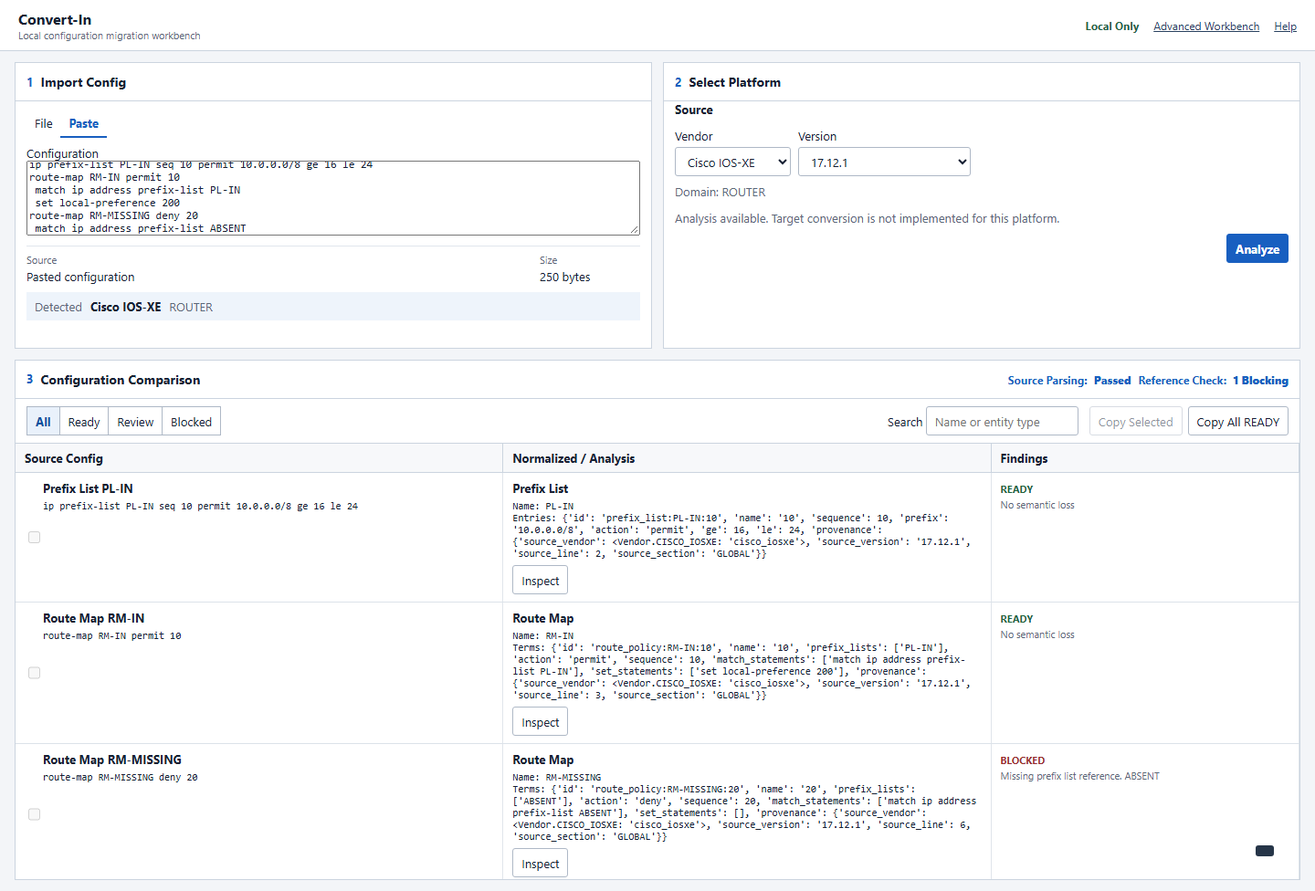
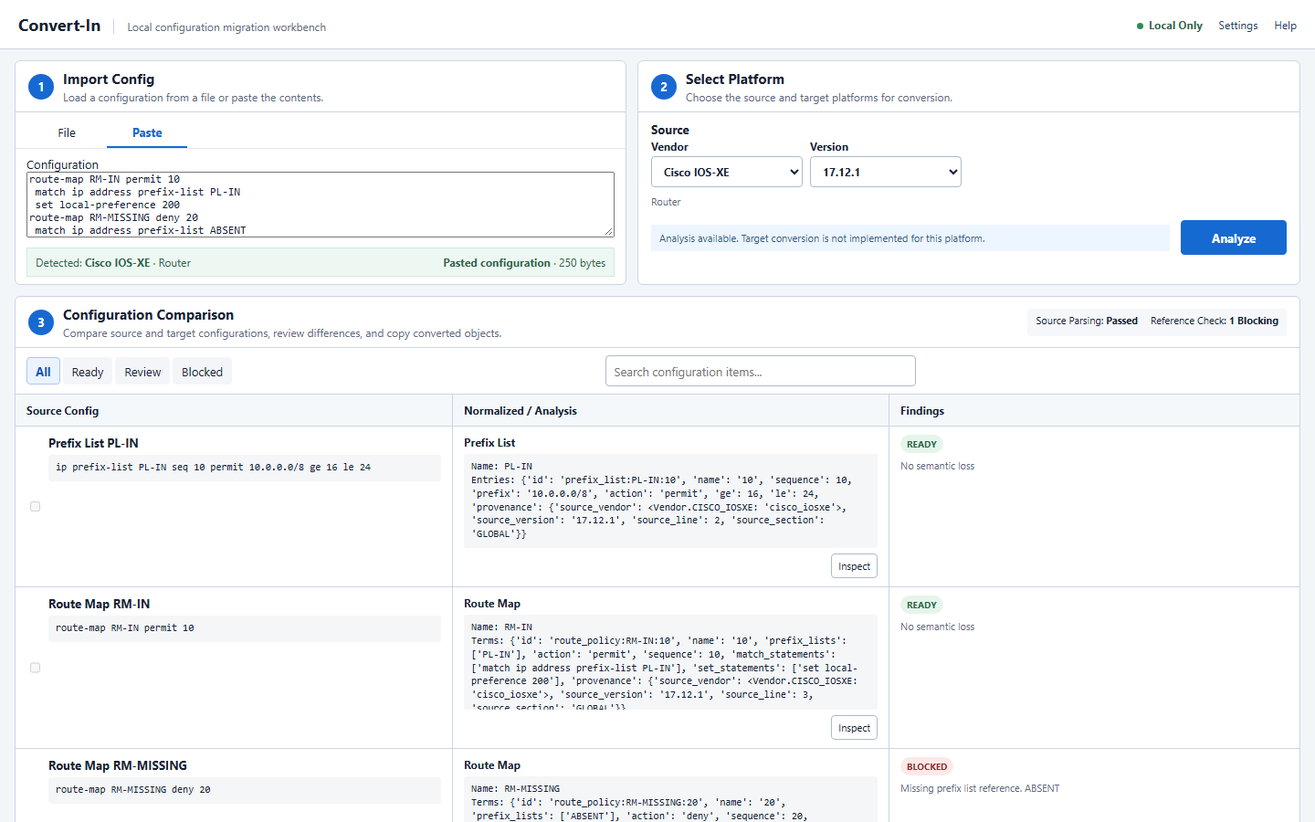
refine three-card workbench UX

diff --git a/app/static/css/workbench.css b/app/static/css/workbench.css
@@ -1,1 +1,1 @@
-:root{font:13px system-ui,-apple-system,"Segoe UI",sans-serif;color:#172033;background:#f3f5f8;--blue:#185fc0;--border:#cbd4df;--muted:#5c6879;--surface:#fff;--danger:#9b2c2c}*{box-sizing:border-box}[hidden]{display:none!important}body{margin:0}button,input,select,textarea{font:inherit;color:inherit}button,select,input{min-height:32px;border:1px solid #aeb8c6;border-radius:3px;background:#fff;padding:5px 9px}button{cursor:pointer}button:disabled{opacity:.48;cursor:not-allowed}:focus-visible{outline:2px solid var(--blue);outline-offset:2px}.top{height:56px;display:flex;align-items:center;justify-content:space-between;padding:0 max(20px,calc((100% - 1540px)/2));border-bottom:1px solid var(--border);background:#fff}.top>a{color:inherit;text-decoration:none}.top b,.top small{display:block}.top b{font-size:16px}.top small{font-size:11px;color:var(--muted)}.top nav{display:flex;align-items:center;gap:16px;font-size:12px}.top nav a{color:#29415f}.top nav span{color:#256044;font-weight:650}.workbench{width:calc(100% - 32px);max-width:1540px;margin:12px auto;display:grid;grid-template-columns:1fr 1fr;gap:12px}.card{background:var(--surface);border:1px solid var(--border);min-width:0}.card>header{height:42px;border-bottom:1px solid var(--border);display:flex;align-items:center;gap:8px;padding:0 12px}.card>header>span,.comparison-head>div>span{color:var(--blue);font-weight:700}.card h1{font-size:14px;margin:0}.tabs{display:flex;padding:8px 12px 0}.tabs button{border:0;border-bottom:2px solid transparent;border-radius:0}.tabs button.active{color:var(--blue);border-color:var(--blue);font-weight:700}#file-panel,#paste-panel{padding:8px 12px}#drop-zone{height:82px;border:1px dashed #9eabbc;display:grid;place-content:center;text-align:center;color:var(--muted)}#drop-zone strong{color:#25354a}#source-file{position:absolute;width:1px;height:1px;opacity:0}#source-text{width:100%;height:82px;resize:vertical;font:12px ui-monospace,Consolas,monospace}.file-meta{display:grid;grid-template-columns:1fr 110px;margin:0 12px;border-top:1px solid #e1e6ed}.file-meta div{padding:7px 0}.file-meta dt{font-size:11px;color:var(--muted)}.file-meta dd{margin:2px 0;overflow:hidden;text-overflow:ellipsis;white-space:nowrap}.detected{margin:0 12px 8px;padding:7px 9px;background:#eef4fb;display:flex;gap:9px;align-items:center}.detected span{color:var(--muted)}.platform-grid{display:grid;grid-template-columns:1fr 1fr}.platform-grid fieldset{border:0;margin:0;padding:12px;display:grid;grid-template-columns:1fr 1fr;gap:8px}.platform-grid fieldset+fieldset{border-left:1px solid var(--border)}legend{font-weight:700;padding:0}.platform-grid label{display:grid;gap:4px}.platform-grid p{grid-column:1/-1;margin:0;color:var(--muted)}#analysis-note{margin:0 12px 9px;color:var(--muted)}#run{float:right;margin:0 12px 8px}.primary{background:var(--blue);color:#fff;border-color:var(--blue);font-weight:700}.error{color:var(--danger);margin:6px 12px;min-height:16px}.comparison-card{grid-column:1/-1;height:calc(100vh - 330px);min-height:420px;display:flex;flex-direction:column;position:relative}.comparison-head{justify-content:space-between}.comparison-head>div{display:flex;gap:8px}.assurance{display:flex;gap:18px;font-size:12px}.assurance b{margin-left:4px}.empty{margin:auto;color:var(--muted)}#results{display:flex;flex-direction:column;min-height:0;flex:1}.toolbar{display:flex;align-items:center;gap:12px;padding:8px 12px;border-bottom:1px solid var(--border)}.filters{display:flex}.filters button{border-radius:0;margin-right:-1px}.filters button.active{background:#e9f1fb;color:#124f9e;font-weight:700}.toolbar>label{margin-left:auto}.copy-actions{display:flex;gap:6px}.copy-actions a{min-height:32px;padding:6px 9px;border:1px solid #aeb8c6;color:inherit;text-decoration:none;border-radius:3px}.entity-grid{display:grid;grid-template-columns:34% 34% 32%;min-width:0}.analysis .entity-grid{grid-template-columns:38% 38% 24%}.column-heads{background:#f7f8fa;border-bottom:1px solid var(--border)}.column-heads>*{padding:7px 10px;border-right:1px solid var(--border)}.entity-list{overflow:auto;min-height:0}.entity-row{border-bottom:1px solid #dce2e9}.entity-row summary{list-style:none}.entity-row summary::-webkit-details-marker{display:none}.entity-cell{min-width:0;padding:8px 10px;border-right:1px solid #e0e5eb}.entity-cell:first-child{display:grid;grid-template-columns:20px 1fr}.entity-cell input{min-height:auto}.entity-cell b,.entity-cell small{display:block}.entity-cell small{color:var(--muted);margin-top:2px}.entity-cell pre{margin:5px 0 0;white-space:pre-wrap;overflow-wrap:anywhere;font:11px ui-monospace,Consolas,monospace}.status{font-weight:750;font-size:11px}.READY{color:#20643f}.REVIEW-REQUIRED{color:#835900}.BLOCKED{color:#972c2c}.row-action{margin-top:6px}.inspect{padding:8px 30px;background:#f8fafc;border-top:1px solid #e1e6ed}.inspect dl{display:grid;grid-template-columns:140px 1fr;margin:0}.inspect dt,.inspect dd{padding:3px;margin:0}.copy-status{position:absolute;right:28px;bottom:12px;background:#263548;color:#fff;padding:6px 10px;border-radius:3px}@media(max-width:900px){.workbench{grid-template-columns:1fr}.comparison-card{height:auto;min-height:520px}.top nav span{display:none}.platform-grid{grid-template-columns:1fr}.platform-grid fieldset+fieldset{border-left:0;border-top:1px solid var(--border)}.toolbar{flex-wrap:wrap}.toolbar>label{margin-left:0}.entity-grid,.analysis .entity-grid{grid-template-columns:minmax(260px,1fr) minmax(260px,1fr) minmax(180px,.7fr)}.column-heads,.entity-row summary{min-width:700px}.entity-list{overflow:auto}.assurance{display:none}}
+:root{font:13px system-ui,-apple-system,"Segoe UI",sans-serif;color:#172033;background:#f3f6f9;--blue:#1769d2;--border:#cbd5e1;--muted:#5d6b7e;--danger:#a52a2a}*{box-sizing:border-box}[hidden]{display:none!important}html,body{margin:0;min-width:0}button,input,select,textarea{font:inherit;color:inherit}button,select,input{min-height:34px;border:1px solid #aebaca;border-radius:4px;background:#fff;padding:5px 9px}button{cursor:pointer}button:disabled{opacity:.48;cursor:not-allowed}:focus-visible{outline:2px solid var(--blue);outline-offset:2px}.sr-only{position:absolute;width:1px;height:1px;padding:0;margin:-1px;overflow:hidden;clip:rect(0,0,0,0);white-space:nowrap;border:0}.top{height:54px;display:flex;align-items:center;justify-content:space-between;padding:0 20px;border-bottom:1px solid var(--border);background:#fff}.brand{display:flex;align-items:baseline;gap:14px;color:inherit;text-decoration:none}.brand b{font-size:18px}.brand small{font-size:12px;color:var(--muted);padding-left:14px;border-left:1px solid var(--border)}.top nav{display:flex;align-items:center;gap:18px;font-size:12px}.top nav a,.top nav button{color:#29415f;text-decoration:none}.top nav button{border:0;padding:0;background:none;min-height:30px}.local-only{color:#326449;font-weight:650}.local-only:before{content:"";display:inline-block;width:7px;height:7px;margin-right:6px;border-radius:50%;background:#2e8b57}.workbench{width:calc(100% - 32px);margin:12px 16px;display:grid;grid-template-columns:minmax(0,48fr) minmax(0,52fr);gap:12px}.card{background:#fff;border:1px solid var(--border);border-radius:6px;min-width:0}.card>header{min-height:56px;border-bottom:1px solid var(--border);display:flex;align-items:center;gap:10px;padding:8px 14px}.card>header>span,.card-heading>span{display:grid;place-items:center;flex:0 0 28px;height:28px;border-radius:50%;color:#fff;background:var(--blue);font-weight:700}.card h1{font-size:15px;margin:0}.card header p{font-size:12px;color:var(--muted);margin:2px 0 0}.tabs{display:flex;padding:5px 12px 0;border-bottom:1px solid #e1e7ee}.tabs button{min-width:88px;border:0;border-bottom:2px solid transparent;border-radius:0}.tabs button.active{color:var(--blue);border-color:var(--blue);font-weight:700}#file-panel,#paste-panel{padding:8px 12px}#drop-zone{height:72px;border:1px dashed #9eabbc;border-radius:4px;display:grid;place-content:center;text-align:center;color:var(--muted)}#drop-zone strong{color:#25354a}#source-file{position:absolute;width:1px;height:1px;opacity:0}#source-text{width:100%;height:72px;resize:vertical;font:12px ui-monospace,Consolas,monospace}.source-status{margin:0 12px 8px;padding:7px 9px;display:flex;justify-content:space-between;gap:10px;background:#edf8f2;border:1px solid #d1eadc;color:#2e654a;font-size:12px}.error{min-height:0;margin:0 12px 8px;color:var(--danger);font-size:12px}.platform-grid{display:grid;grid-template-columns:minmax(0,1fr) minmax(0,1fr);gap:16px;padding:10px 14px 6px}.platform-grid fieldset{min-width:0;border:0;padding:0;margin:0;display:grid;grid-template-columns:minmax(0,1fr) minmax(0,1fr);gap:8px}.platform-grid legend{grid-column:1/-1;padding:0 0 2px;font-weight:700}.platform-grid label{min-width:0;font-size:12px;font-weight:650}.platform-grid select{display:block;width:100%;margin-top:3px}.platform-grid p{grid-column:1/-1;margin:0;color:var(--muted);font-size:11px}.platform-footer{display:flex;align-items:center;gap:12px;padding:7px 14px 10px}.platform-footer p{flex:1;margin:0;padding:7px 9px;background:#edf5ff;color:#315a88;font-size:11px}.primary{min-width:116px;min-height:38px;border-color:var(--blue);background:var(--blue);color:#fff;font-weight:700}.comparison-card{grid-column:1/-1;height:calc(100vh - 286px);min-height:410px;display:flex;flex-direction:column}.comparison-head{justify-content:space-between}.card-heading{display:flex;align-items:center;gap:10px}.assurance{border:0;background:#f5f7fa;display:flex;gap:14px;min-height:30px;font-size:11px}.toolbar{display:grid;grid-template-columns:auto minmax(220px,340px) auto;justify-content:space-between;align-items:center;gap:10px;padding:8px 12px;border-bottom:1px solid var(--border)}.filters{display:flex;gap:3px}.filters button{min-height:30px;border-color:transparent;background:#f3f5f8}.filters button.active{border-color:#aac8ef;background:#eaf3ff;color:#1457ad;font-weight:700}.search input{width:100%}.copy-actions{display:flex;gap:5px}.copy-actions a{display:flex;align-items:center;min-height:34px;padding:5px 9px;border:1px solid #aebaca;border-radius:4px;color:inherit;text-decoration:none}.comparison-body{min-height:0;flex:1;overflow-y:auto}.entity-grid{display:grid;grid-template-columns:minmax(0,34fr) minmax(0,34fr) minmax(0,32fr)}.column-heads{position:sticky;top:0;z-index:2;background:#f5f8fb;border-bottom:1px solid var(--border)}.column-heads strong{padding:9px 12px;font-size:12px}.column-heads strong+strong,.entity-cell+.entity-cell{border-left:1px solid var(--border)}.entity-row{border-bottom:1px solid var(--border)}.entity-row summary{list-style:none;cursor:pointer}.entity-row summary::-webkit-details-marker{display:none}.entity-cell{min-width:0;padding:9px 12px}.entity-cell:first-child{display:grid;grid-template-columns:18px minmax(0,1fr);gap:6px}.entity-cell>b{display:block;font-size:12px}.entity-cell pre{max-height:104px;margin:5px 0 0;padding:7px 8px;overflow:hidden;white-space:pre-wrap;background:#f4f6f8;border-radius:3px;font:11px/1.35 ui-monospace,Consolas,monospace}.entity-cell small{display:block;margin-top:6px;color:var(--muted)}.row-action{float:right;min-height:27px;margin-top:6px;padding:3px 7px;font-size:11px}.status{display:inline-block;padding:3px 7px;border-radius:10px;font-size:10px;font-weight:750}.status.READY{background:#e5f5eb;color:#24643d}.status.REVIEW-REQUIRED{background:#fff3d8;color:#7b5200}.status.BLOCKED{background:#fde8e8;color:#8c2727}.inspect{padding:10px 30px;background:#f8fafc;border-top:1px solid #e2e8f0}.inspect dl{display:grid;grid-template-columns:110px 1fr;gap:5px;margin:0}.inspect dt{font-weight:700}.inspect dd{margin:0}.empty{display:grid;place-items:center;min-height:190px;color:var(--muted);text-align:center}.copy-status{position:absolute;right:20px;bottom:12px;margin:0}.analysis .copy-actions{display:none!important}@media(max-width:1050px){.platform-grid{gap:10px}.toolbar{grid-template-columns:auto minmax(220px,1fr)}.copy-actions{grid-column:1/-1;justify-self:end}.comparison-card{height:auto;min-height:480px}.comparison-body{max-height:600px}}@media(max-width:820px){.brand small{display:none}.workbench{grid-template-columns:1fr}.comparison-card{grid-column:1}.platform-card{order:2}.comparison-card{order:3}.entity-grid{grid-template-columns:1fr}.column-heads{display:none}.entity-cell+.entity-cell{border-left:0;border-top:1px solid #e2e8f0}.toolbar{grid-template-columns:1fr}.search{width:100%}.copy-actions{justify-self:start}.source-status{align-items:flex-start;flex-direction:column}}@media(max-width:520px){.top{padding:0 12px}.top nav{gap:10px}.workbench{width:calc(100% - 16px);margin:8px;gap:8px}.platform-grid,.platform-grid fieldset{grid-template-columns:1fr}.platform-footer{align-items:stretch;flex-direction:column}.primary{align-self:flex-end}.filters{overflow-x:auto}}.loading-row{height:72px;margin:10px 12px;background:#eef2f6;border-radius:3px}

diff --git a/app/static/js/workbench.js b/app/static/js/workbench.js
@@ -4,11 +4,11 @@ function inputMode(mode){state.mode=mode;const paste=mode==='paste';$('#file-pan
 $('#file-tab').onclick=()=>inputMode('file');$('#paste-tab').onclick=()=>inputMode('paste');
 async function load(file){if(file.size>max){$('#import-error').textContent='File exceeds the 5 MiB limit.';return}state.text=await file.text();state.filename=file.name;refresh(true)}
 $('#source-file').onchange=e=>load(e.target.files[0]);$('#source-text').oninput=e=>{state.text=e.target.value;state.filename='Pasted configuration';refresh(true)};for(const name of ['dragover','drop'])$('#drop-zone').addEventListener(name,e=>e.preventDefault());$('#drop-zone').addEventListener('drop',e=>load(e.dataTransfer.files[0]));
-async function refresh(detect=false){const bytes=new Blob([state.text]).size;$('#filename').textContent=state.filename||'None';$('#filesize').textContent=`${bytes.toLocaleString()} bytes`;$('#run').disabled=!state.text.trim();$('#detected').hidden=true;if(!detect||!state.text.trim())return;const body=new FormData();body.set('config',state.text);const response=await fetch('/api/convert/detect',{method:'POST',body}),data=await response.json();if(!response.ok)return;const labels={cisco_asa:'Cisco ASA',fortigate:'FortiGate',juniper_srx:'Juniper SRX',cisco_iosxe:'Cisco IOS-XE'},domain=data.vendor==='cisco_iosxe'?'ROUTER':'FIREWALL';$('#detected-platform').textContent=`${labels[data.vendor]||'Unknown'} ${data.version||''}`;$('#detected-domain').textContent=domain;$('#detected').hidden=false;if(data.vendor!=='unknown')$('#source-vendor').value=data.vendor;if(data.version)$('#source-version').value=data.version;setMode(domain)}
-function setMode(domain){const analyze=domain==='ROUTER';$('#target-fields').hidden=analyze;$('#analysis-note').hidden=!analyze;$('#run').textContent=analyze?'Analyze':'Convert';$('#source-domain').textContent=`Domain: ${domain||'Not detected'}`}
+async function refresh(detect=false){const bytes=new Blob([state.text]).size;$('#filename').textContent=state.filename;$('#filesize').textContent=`${bytes.toLocaleString()} bytes`;$('#run').disabled=!state.text.trim();$('#source-status').hidden=true;$('#import-error').textContent='';if(!detect||!state.text.trim())return;const body=new FormData();body.set('config',state.text);const response=await fetch('/api/convert/detect',{method:'POST',body}),data=await response.json();if(!response.ok){$('#import-error').textContent=data.detail||'Source platform could not be detected.';return}const labels={cisco_asa:'Cisco ASA',fortigate:'FortiGate',juniper_srx:'Juniper SRX',cisco_iosxe:'Cisco IOS-XE'},domain=data.vendor==='cisco_iosxe'?'ROUTER':'FIREWALL';$('#detected-platform').textContent=`${labels[data.vendor]||'Unknown'} ${data.version||''}`;$('#detected-domain').textContent=domain[0]+domain.slice(1).toLowerCase();$('#source-status').hidden=false;if(data.vendor!=='unknown')$('#source-vendor').value=data.vendor;if(data.version)$('#source-version').value=data.version;setMode(domain)}
+function setMode(domain){const analyze=domain==='ROUTER';$('#target-fields').hidden=analyze;$('#capability-note').hidden=analyze;$('#analysis-note').hidden=!analyze;$('#run').textContent=analyze?'Analyze':'Convert';$('#source-domain').textContent=domain?domain[0]+domain.slice(1).toLowerCase():''}
 $('#source-vendor').onchange=e=>setMode(e.target.value==='cisco_iosxe'?'ROUTER':'FIREWALL');
-$('#run').onclick=async()=>{const button=$('#run'),analyze=$('#source-vendor').value==='cisco_iosxe';setMode(analyze?'ROUTER':'FIREWALL');button.disabled=true;button.textContent=analyze?'Analyzing...':'Converting...';$('#platform-error').textContent='';$('#empty').textContent='Parsing source configuration...';const body=new FormData();body.set('config',state.text);body.set('source_vendor',$('#source-vendor').value);body.set('source_version',$('#source-version').value);body.set('target_version',$('#target-version').value);const response=await fetch('/api/workbench/run',{method:'POST',body}),data=await response.json();button.disabled=false;if(!response.ok){$('#platform-error').textContent=data.detail||'Processing failed.';button.textContent=analyze?'Analyze':'Convert';return}state.result=data;button.textContent=data.mode==='ANALYZE'?'Analyze':'Convert';render()};
-function render(){const r=state.result,analysis=r.mode==='ANALYZE';$('#empty').hidden=true;$('#results').hidden=false;$('.comparison-card').classList.toggle('analysis',analysis);$('#column-heads').innerHTML=analysis?'<strong>Source Config</strong><strong>Normalized / Analysis</strong><strong>Findings</strong>':'<strong>Source Config</strong><strong>Target Config</strong><strong>Semantic Diff</strong>';const cp0=r.cp0_summary,cp1=r.cp1_summary,review=r.cp2_summary?Object.entries(r.cp2_summary).filter(([k])=>['PARTIAL','MANUAL_REVIEW'].includes(k)).reduce((n,[,v])=>n+v,0):0;$('#assurance').innerHTML=`<span>Source Parsing: <b>${cp0.blocking_issues?.length?'Blocked':'Passed'}</b></span><span>Reference Check: <b>${cp1.blocking_findings} Blocking</b></span>${analysis?'':`<span>Compatibility: <b>${review} Review</b></span>`}`;$('#assurance').hidden=false;$('#download').hidden=!r.candidate;if(r.candidate)$('#download').href=URL.createObjectURL(new Blob([r.candidate],{type:'text/plain'}));renderRows()}
+$('#run').onclick=async()=>{const button=$('#run'),analyze=$('#source-vendor').value==='cisco_iosxe';setMode(analyze?'ROUTER':'FIREWALL');button.disabled=true;button.textContent='Parsing...';$('#platform-error').textContent='';$('#entity-list').innerHTML='<div class="loading-row"></div><div class="loading-row"></div><div class="loading-row"></div>';const body=new FormData();body.set('config',state.text);body.set('source_vendor',$('#source-vendor').value);body.set('source_version',$('#source-version').value);body.set('target_version',$('#target-version').value);const response=await fetch('/api/workbench/run',{method:'POST',body}),data=await response.json();button.disabled=false;if(!response.ok){$('#platform-error').textContent=data.detail||'Processing failed.';button.textContent=analyze?'Analyze':'Convert';$('#entity-list').innerHTML='<div id="empty" class="empty">Processing failed. Correct the source or platform selection and retry.</div>';return}state.result=data;button.textContent=data.mode==='ANALYZE'?'Analyze':'Convert';render()};
+function render(){const r=state.result,analysis=r.mode==='ANALYZE';$('.comparison-card').classList.toggle('analysis',analysis);$('.copy-actions').hidden=analysis;$('#column-heads').innerHTML=analysis?'<strong>Source Config</strong><strong>Normalized / Analysis</strong><strong>Findings</strong>':'<strong>Source Config</strong><strong>Target Config</strong><strong>Semantic Diff</strong>';const cp0=r.cp0_summary,cp1=r.cp1_summary,review=r.cp2_summary?Object.entries(r.cp2_summary).filter(([k])=>['PARTIAL','MANUAL_REVIEW'].includes(k)).reduce((n,[,v])=>n+v,0):0;$('#assurance').innerHTML=`<span>Source Parsing: <b>${cp0.blocking_issues?.length?'Blocked':'Passed'}</b></span><span>Reference Check: <b>${cp1.blocking_findings} Blocking</b></span>${analysis?'':`<span>Compatibility: <b>${review} Review</b></span>`}`;$('#assurance').hidden=false;$('#download').hidden=!r.candidate;if(r.candidate)$('#download').href=URL.createObjectURL(new Blob([r.candidate],{type:'text/plain'}));renderRows()}
 function renderRows(){const term=$('#search').value.toLowerCase(),rows=state.result.entities.filter(x=>(state.filter==='ALL'||x.user_status===state.filter)&&(!term||`${x.source_title} ${x.target_title||''} ${x.entity_type} ${x.source_snippet}`.toLowerCase().includes(term)));$('#entity-list').innerHTML=rows.map(x=>`<details class="entity-row" data-id="${esc(x.id)}"><summary class="entity-grid"><div class="entity-cell"><input type="checkbox" aria-label="Select ${esc(x.source_title)}" ${x.copyable?'':'disabled'}><div><b>${esc(x.entity_type)} ${esc(x.source_title)}</b><pre>${esc(x.source_snippet)}</pre></div></div><div class="entity-cell"><b>${esc(x.target_title||x.entity_type)}</b><pre>${esc(x.target_snippet)}</pre>${x.copyable?`<button class="row-action" type="button">Copy ${esc(x.entity_type)}</button>`:'<button class="row-action" type="button">Inspect</button>'}</div><div class="entity-cell"><span class="status ${x.user_status.replaceAll(' ','-')}">${esc(x.user_status)}</span><small>${esc(x.findings[0]||'No semantic loss')}</small></div></summary><div class="inspect"><dl><dt>Detailed status</dt><dd>${esc(x.detailed_status)}</dd><dt>Findings</dt><dd>${esc(x.findings.join(' · ')||'None')}</dd></dl></div></details>`).join('')||'<div class="empty">No matching entities.</div>';$$('.entity-row').forEach(row=>{const item=state.result.entities.find(x=>x.id===row.dataset.id),action=row.querySelector('.row-action'),box=row.querySelector('input');action.onclick=e=>{if(!item.copyable)return;e.preventDefault();copy(item.commands.join('\n'),`Copied ${item.entity_type} ${item.source_title}`)};box.onchange=()=>$('#copy-selected').disabled=!$$('.entity-row input:checked').length})}
 $$('.filters button').forEach(b=>b.onclick=()=>{$$('.filters button').forEach(x=>x.classList.toggle('active',x===b));state.filter=b.dataset.filter;renderRows()});$('#search').oninput=renderRows;
 function ordered(items){const rank={'Address':1,'Address Group':2,'Service':3,'Service Group':4,'Security Rule':5,'Static Route':6};return [...items].sort((a,b)=>(rank[a.entity_type]||99)-(rank[b.entity_type]||99)||state.result.entities.indexOf(a)-state.result.entities.indexOf(b))}

diff --git a/app/templates/index.html b/app/templates/index.html
@@ -1,8 +1,8 @@
 <!doctype html>
 <html lang="en"><head><meta charset="utf-8"><meta name="viewport" content="width=device-width,initial-scale=1"><title>Convert-In</title><link rel="stylesheet" href="/static/css/workbench.css"><script src="/static/js/workbench.js" defer></script></head>
-<body><header class="top"><a href="/"><b>Convert-In</b><small>Local configuration migration workbench</small></a><nav><span>Local Only</span><a href="/advanced">Advanced Workbench</a><a href="/docs">Help</a></nav></header>
+<body><header class="top"><a href="/" class="brand"><b>Convert-In</b><small>Local configuration migration workbench</small></a><nav aria-label="Utilities"><span class="local-only">Local Only</span><button type="button">Settings</button><a href="/docs">Help</a></nav></header>
 <main class="workbench">
-<section class="card import-card" aria-labelledby="import-title"><header><span>1</span><h1 id="import-title">Import Config</h1></header><div class="tabs" role="tablist"><button id="file-tab" class="active" role="tab" aria-selected="true">File</button><button id="paste-tab" role="tab" aria-selected="false">Paste</button></div><div id="file-panel"><label id="drop-zone" for="source-file"><strong>Drop configuration</strong><span>or choose file</span><input id="source-file" type="file" accept=".cfg,.conf,.txt"></label></div><div id="paste-panel" hidden><label for="source-text">Configuration</label><textarea id="source-text" spellcheck="false"></textarea></div><dl class="file-meta"><div><dt>Source</dt><dd id="filename">None</dd></div><div><dt>Size</dt><dd id="filesize">0 bytes</dd></div></dl><div id="detected" class="detected" hidden><span>Detected</span><strong id="detected-platform"></strong><span id="detected-domain"></span></div><p id="import-error" class="error" aria-live="polite"></p></section>
-<section class="card platform-card" aria-labelledby="platform-title"><header><span>2</span><h1 id="platform-title">Select Platform</h1></header><div class="platform-grid"><fieldset><legend>Source</legend><label>Vendor<select id="source-vendor"><option value="auto">Auto detect</option><option value="cisco_asa">Cisco ASA</option><option value="fortigate">FortiGate</option><option value="juniper_srx">Juniper SRX</option><option value="cisco_iosxe">Cisco IOS-XE</option></select></label><label>Version<select id="source-version"><option value="">Detect from configuration</option><option>9.20</option><option>9.22</option><option>9.24</option><option>7.4</option><option>7.6</option><option>23.4R2</option><option>17.12.1</option></select></label><p id="source-domain">Domain: Not detected</p></fieldset><fieldset id="target-fields"><legend>Target</legend><label>Vendor<select disabled><option>Palo Alto Networks</option></select></label><label>Version<select id="target-version"><option>11.1</option></select></label></fieldset></div><p id="analysis-note" hidden>Analysis available. Target conversion is not implemented for this platform.</p><button id="run" class="primary" disabled>Convert</button><p id="platform-error" class="error" aria-live="polite"></p></section>
-<section class="card comparison-card" aria-labelledby="comparison-title"><header class="comparison-head"><div><span>3</span><h1 id="comparison-title">Configuration Comparison</h1></div><div id="assurance" class="assurance" hidden></div></header><div id="empty" class="empty">Import a configuration and select a platform to begin.</div><div id="results" hidden><div class="toolbar"><div class="filters" role="group" aria-label="Status filter"><button class="active" data-filter="ALL">All</button><button data-filter="READY">Ready</button><button data-filter="REVIEW REQUIRED">Review</button><button data-filter="BLOCKED">Blocked</button></div><label>Search <input id="search" type="search" placeholder="Name or entity type"></label><div class="copy-actions"><button id="copy-selected" disabled>Copy Selected</button><button id="copy-ready">Copy All READY</button><a id="download" download="candidate-pan-os.set">Download Candidate</a></div></div><div id="column-heads" class="entity-grid column-heads"><strong>Source Config</strong><strong>Target Config</strong><strong>Semantic Diff</strong></div><div id="entity-list" class="entity-list"></div></div><p id="copy-status" class="copy-status" aria-live="polite"></p></section>
+<section class="card import-card" aria-labelledby="import-title"><header><span>1</span><div><h1 id="import-title">Import Config</h1><p>Load a configuration from a file or paste the contents.</p></div></header><div class="tabs" role="tablist"><button id="file-tab" class="active" role="tab" aria-selected="true" aria-controls="file-panel">File</button><button id="paste-tab" role="tab" aria-selected="false" aria-controls="paste-panel">Paste</button></div><div id="file-panel" role="tabpanel" aria-labelledby="file-tab"><label id="drop-zone" for="source-file"><strong>Drop a configuration file here</strong><span>or choose file</span><input id="source-file" type="file" accept=".cfg,.conf,.txt"></label></div><div id="paste-panel" role="tabpanel" aria-labelledby="paste-tab" hidden><label for="source-text">Configuration</label><textarea id="source-text" spellcheck="false"></textarea></div><div id="source-status" class="source-status" hidden><span>Detected: <strong id="detected-platform"></strong> · <span id="detected-domain"></span></span><span><b id="filename"></b> · <span id="filesize"></span></span></div><p id="import-error" class="error" aria-live="polite"></p></section>
+<section class="card platform-card" aria-labelledby="platform-title"><header><span>2</span><div><h1 id="platform-title">Select Platform</h1><p>Choose the source and target platforms for conversion.</p></div></header><div class="platform-grid"><fieldset><legend>Source</legend><label>Vendor<select id="source-vendor"><option value="auto">Auto detect</option><option value="cisco_asa">Cisco ASA</option><option value="fortigate">FortiGate</option><option value="juniper_srx">Juniper SRX</option><option value="cisco_iosxe">Cisco IOS-XE</option></select></label><label>Version<select id="source-version"><option value="">Detect from configuration</option><option>9.20</option><option>9.22</option><option>9.24</option><option>7.4</option><option>7.6</option><option>23.4R2</option><option>17.12.1</option></select></label><p id="source-domain"></p></fieldset><fieldset id="target-fields"><legend>Target</legend><label>Vendor<select disabled><option>Palo Alto Networks</option></select></label><label>Version<select id="target-version"><option>11.1</option></select></label></fieldset></div><div class="platform-footer"><p id="capability-note">Only documentation-backed, supported output is generated. Unsupported or unverified features are flagged for review.</p><p id="analysis-note" hidden>Analysis available. Target conversion is not implemented for this platform.</p><button id="run" class="primary" disabled>Convert</button></div><p id="platform-error" class="error" aria-live="polite"></p></section>
+<section class="card comparison-card" aria-labelledby="comparison-title"><header class="comparison-head"><div class="card-heading"><span>3</span><div><h1 id="comparison-title">Configuration Comparison</h1><p>Compare source and target configurations, review differences, and copy converted objects.</p></div></div><button id="assurance" class="assurance" type="button" hidden></button></header><div class="toolbar"><div class="filters" role="group" aria-label="Status filter"><button class="active" data-filter="ALL">All</button><button data-filter="READY">Ready</button><button data-filter="REVIEW REQUIRED">Review</button><button data-filter="BLOCKED">Blocked</button></div><label class="search"><span class="sr-only">Search configuration items</span><input id="search" type="search" placeholder="Search configuration items..."></label><div class="copy-actions" hidden><button id="copy-selected" disabled>Copy Selected</button><button id="copy-ready">Copy All READY</button><a id="download" download="candidate-pan-os.set">Download Candidate</a></div></div><div class="comparison-body"><div id="column-heads" class="entity-grid column-heads"><strong>Source Config</strong><strong>Target Config</strong><strong>Semantic Diff</strong></div><div id="entity-list" class="entity-list"><div id="empty" class="empty">Import a configuration and select a platform to begin.</div></div></div><p id="copy-status" class="copy-status" aria-live="polite"></p></section>
 </main></body></html>

diff --git a/tests/browser/test_smoke.py b/tests/browser/test_smoke.py
@@ -68,6 +68,12 @@ def test_malformed_is_recoverable(page,live_server):
 def test_workbench_firewall_convert_copy_filter_and_download(page,live_server,tmp_path):
     live_server,_=live_server; page.set_viewport_size({"width":1440,"height":900}); page.goto(live_server)
     assert page.locator(".card").count()==3 and page.locator("aside").count()==0
+    assert page.get_by_role("link",name="Advanced Workbench").count()==0
+    assert page.get_by_role("heading",name="Import Config").is_visible()
+    assert page.get_by_role("heading",name="Select Platform").is_visible()
+    assert page.get_by_role("heading",name="Configuration Comparison").is_visible()
+    assert page.get_by_role("button",name="All",exact=True).is_visible()
+    assert page.locator("#column-heads").is_visible()
     page.locator("#source-file").set_input_files(str(Path("examples/fortigate/basic.conf").resolve())); page.locator("#source-version").select_option("7.4")
     page.get_by_role("button",name="Convert",exact=True).click(); page.locator(".entity-row").first.wait_for()
     assert page.get_by_text("Source Parsing:").is_visible() and page.get_by_text("Compatibility:").is_visible()
@@ -75,6 +81,7 @@ def test_workbench_firewall_convert_copy_filter_and_download(page,live_server,tm
     page.get_by_role("button",name="Ready",exact=True).click(); assert page.locator(".entity-row").count()>0
     first=page.locator(".entity-row input:not([disabled])").first; first.check(); assert page.locator("#copy-selected").is_enabled()
     page.get_by_role("button",name="Blocked",exact=True).click(); assert page.locator(".entity-row input:not([disabled])").count()==0
+    assert page.locator(".entity-row .row-action",has_text="Copy").count()==0
     with page.expect_download() as download: page.get_by_role("link",name="Download Candidate").click()
     assert download.value.suggested_filename=="candidate-pan-os.set"
 
@@ -94,3 +101,5 @@ def test_quick_convert_responsive(page,live_server,width,height):
     assert page.evaluate("document.documentElement.scrollWidth <= document.documentElement.clientWidth")
     assert page.locator(".card").count()==3 and page.locator("aside").count()==0
     assert page.get_by_role("button",name="Convert",exact=True).is_visible()
+    target=page.locator("#target-fields"); box=target.bounding_box(); viewport=page.viewport_size
+    assert box and box["x"]>=0 and box["x"]+box["width"]<=viewport["width"]
